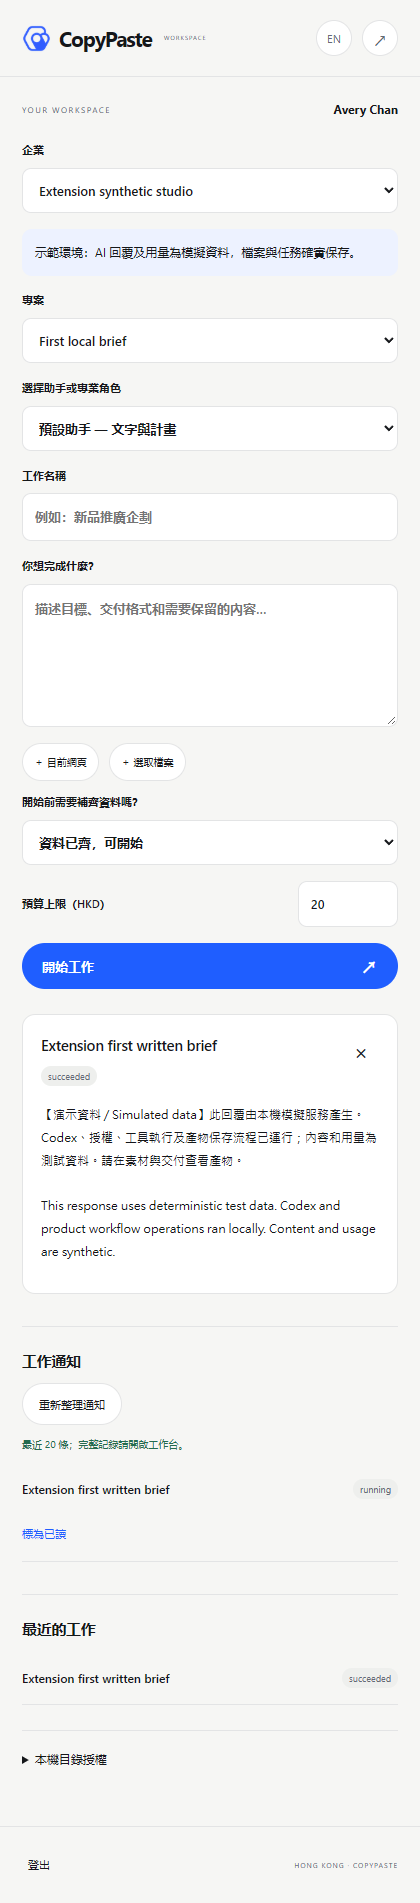
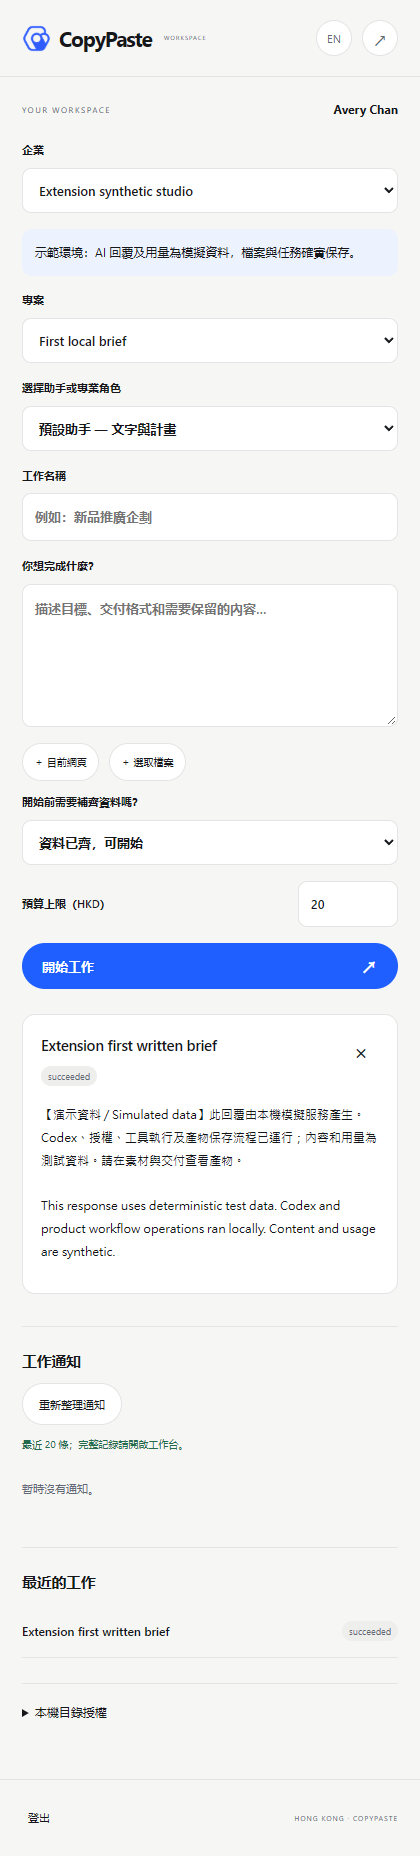
feat: explain capacity waits without duplicating work

diff --git a/src/panel.ts b/src/panel.ts
@@ -316,9 +316,14 @@ async function drawTask(t: any) {
           "尚未呼叫模型，原預算保持預留。補齊資料後繼續同一項工作。",
           "The model has not been called. The original budget remains reserved; providing all inputs continues this same task.",
         )
-      : t.output ||
-        t.error_code ||
-        tr("工作正在處理中。", "Work is in progress.");
+      : t.status === "queued" && t.capacity_wait_reason
+        ? tr(
+            "正在等待執行名額，系統會自動繼續原工作。尚未呼叫模型，預算仍保持預留。",
+            "Waiting for execution capacity. This same task resumes automatically; the model has not been called and the original budget remains reserved.",
+          )
+        : t.output ||
+          t.error_code ||
+          tr("工作正在處理中。", "Work is in progress.");
   $("cancel-task").hidden = ![
     "queued",
     "running",

diff --git a/README.en.md b/README.en.md
@@ -110,3 +110,7 @@ The explicit local picker uploads shared project files up to 5 MiB. Use the full
 
 ![Initial file request in the actual side panel](assets/screenshots/06-input-wait.png)
 ![Result from the same task](assets/screenshots/07-input-result.png)
+
+## Shared-slot waits (current source)
+
+The panel explains server capacity waits: no model call yet, the original budget remains held and the same task resumes automatically. All clients share the server queue/database; the extension does not duplicate the task or reservation. Historical ZIPs are unchanged.

diff --git a/README.md b/README.md
@@ -110,3 +110,7 @@ Submit an explicit file prerequisite, then search and select a current version t
 
 ![等待明确选择 / Waiting for explicit selection](assets/screenshots/06-input-wait.png)
 ![同任务结果 / Same-task result](assets/screenshots/07-input-result.png)
+
+## 共用名额排队（当前源码）
+
+侧栏识别服务端容量等待，说明模型未启动、预算保持预留及原工作自动继续。此约束与 Web/Desktop 共用同一队列及数据库，不通过扩展重复创建或收费。历史 ZIP 保持原版。
